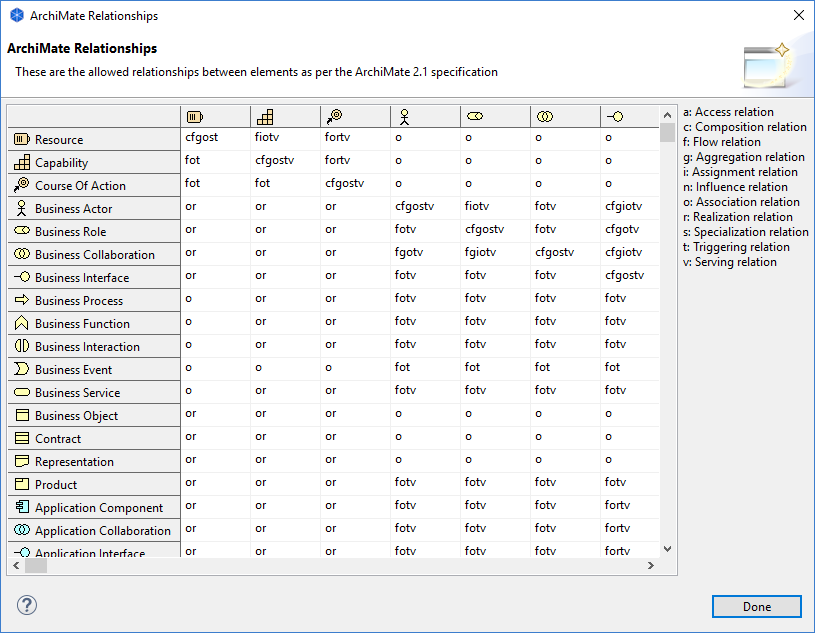
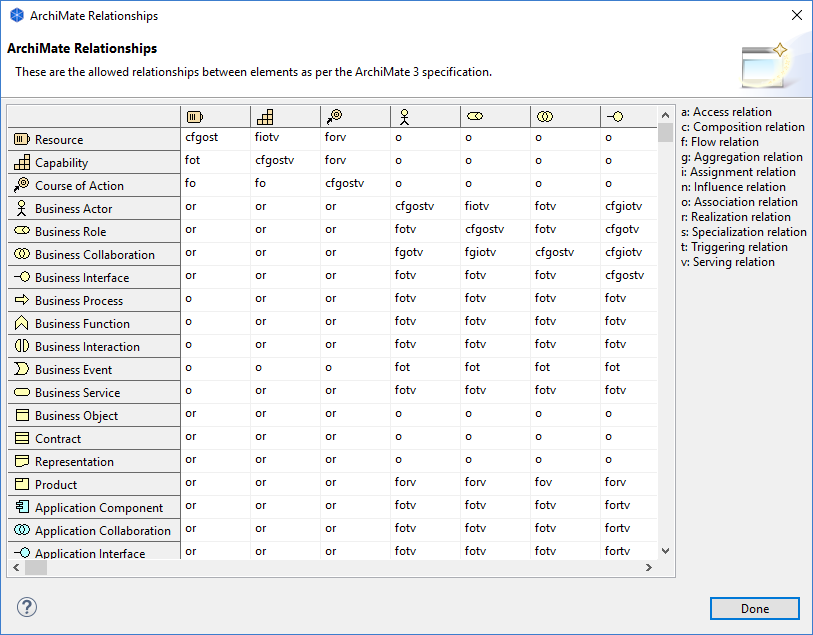
адаптировал ресурсы к версии 4.0.2

diff --git a/com.archimatetool.help.ru/nl/ru/help/Text/view_copy_paste_delete.html b/com.archimatetool.help.ru/nl/ru/help/Text/view_copy_paste_delete.html
@@ -23,7 +23,9 @@
       <li>If an element is pasted in a View <em>from the same model</em> where the element <em>does not already exist </em>then a new diagram element is created for the View and the original model element is referenced. This is equivalent to dragging the element from the Model Tree into the View. Any connections are also referenced.</li>
     </ul>
     
-    <p>If an element is pasted into a View <em>from a different model</em> then a new model element and a new diagram element are created for the View. The new element is a copy of the original. Any  connections are also newly created as copies.</p>
+    <p>If an element is pasted into a View <em>from a different model</em> then a new model element and a new diagram element are created for the View. The new element is a copy of the original. Any connections are also newly created as copies.</p>
+    
+    <p>If you choose the "Paste Special" menu option, instead of "Paste" then you can change this behaviour such that references to copied elements are created rather than new elements. You can set the behaviour for this feature in Preferences.</p>
     
     <p class="boxout"><img src="../Images/tip.png" class="tipImage"/>If you copy some diagram elements and then click on the View before pasting, the copied elements will be pasted at the point where you clicked.</p>
     

diff --git a/com.archimatetool.help.ru/nl/ru/hints/business_interface.html b/com.archimatetool.help.ru/nl/ru/hints/business_interface.html
@@ -1,10 +1,10 @@
 <!DOCTYPE html>
 <html lang="ru">
-	<head>
-		<meta charset="UTF-8"/>
-		<link rel="stylesheet" href="style.css" type="text/css"/>
+    <head>
+        <meta charset="UTF-8"/>
+        <link rel="stylesheet" href="style.css" type="text/css"/>
 		<title>Канал взаимодействия</title>
-	</head>
+    </head>
     <body>
    	<p><em>Канал взаимодействия</em> (business interface) определяет способ, каким <em>роль</em> связывается с ее окружением.</p>
    	<p>Работы, обеспечиваемые ролью, выставляются в окружение посредством одного или более каналов взаимодействия. И наоборот, роль людей может потреблять работы, предоставляемые другими ролями людей через каналы взаимодействия.</p>
@@ -17,5 +17,5 @@
    	    <p>Телефон, Электронная почта, Колл-центр, Веб-форма, Диспетчерская.</p>
     <h2>Типичные отношения:</h2>
     <p>Назначение - <em>ответственные, роли, коллегиальная роль, оргсервис</em></p>
-</body>
+    </body>
 </html>

diff --git a/com.archimatetool.help.ru/nl/ru/help/Text/visualiser.html b/com.archimatetool.help.ru/nl/ru/help/Text/visualiser.html
@@ -30,6 +30,10 @@
 
 	<p>You can filter the displayed elements in the Visualiser from the "Viewpoint Filter" menu. This will display only those elements that are permissable in the given Viewpoint. To view all elements select the "None" Viewpoint. For more information see the <a href="viewpoints.html">Viewpoints</a> section.</p>
     
+    <h2>Relationship Filter</h2>
+
+	<p>You can filter the displayed relationship in the Visualiser from the "Relationship Filter" menu. This will display only the selected relationship. To view all relationships select the "All" option.</p>
+    
     <h2>Direction</h2>
 
 	<p>This menu item allows you to set whether relationships incoming and outgoing relationships and their connected elements are displayed. Options are "Both", "Incoming" and "Outgoing". "Incoming" shows all incoming relationships, "Outgoing" shows outgoing relationships, while "Both" shows both incoming and outgoing relationships. This is similar to the functionality in the <a href="navigator.html">Navigator</a>.</p>

diff --git a/com.archimatetool.help.ru/nl/ru/help/Text/prefs_diagram.html b/com.archimatetool.help.ru/nl/ru/help/Text/prefs_diagram.html
@@ -77,8 +77,21 @@
     <p></p>
     
     <br/>
+
+    <h2>Paste Special behavior</h2>
+    <p>
+        <strong>Always paste a reference to copied element</strong>
+        <br/>When this option is set copied elements in a diagram always reference the orginal elements.</p>
     
-	<h2>Appearance</h2>
+    <p>
+        <strong>Always paste a duplicate of copied element</strong>
+        <br/>When this option is set copied elements in a diagram are always duplicates of the orginal elements.</p>
+
+    <p>For more information see <a href="view_copy_paste_delete.html">Copying, Pasting, Selecting and Deleting Elements</a>.</p>
+    
+    <br/>
+    
+    <h2>Appearance</h2>
 	
 	<br/>
     

diff --git a/com.archimatetool.help.ru/nl/ru/help/Text/intro.html b/com.archimatetool.help.ru/nl/ru/help/Text/intro.html
@@ -29,7 +29,7 @@
         <li>Andrew Josey and The Open Group for positivity and support.</li>
 	</ul>
     
-    <p>Copyright (c) 2013-2016 Phillip Beauvoir, Jean-Baptiste Sarrodie, The Open Group. All Rights Reserved.</p>
+    <p>Copyright (c) 2013-2017 Phillip Beauvoir, Jean-Baptiste Sarrodie, The Open Group. All Rights Reserved.</p>
     
     <p>&nbsp;</p>
 
